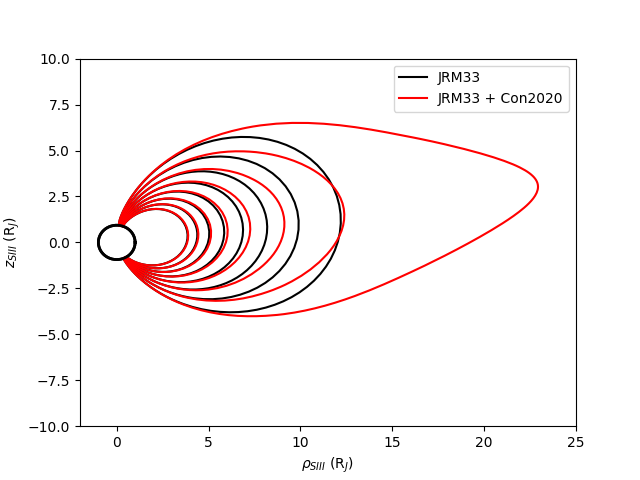
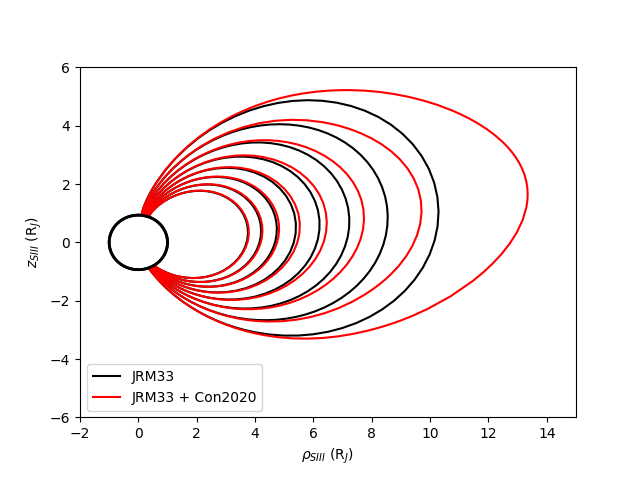
updated comparison plot

diff --git a/JupiterMag/Tools/TestTrace.py b/JupiterMag/Tools/TestTrace.py
@@ -59,7 +59,7 @@ def CompareTrace():
 	ax = T0.PlotRhoZ(label='JRM33',color='black')
 	ax = T1.PlotRhoZ(fig=ax,label='JRM33 + Con2020',color='red')
 	
-	ax.set_xlim(-2.0,25.0)
-	ax.set_ylim(-10.0,10.0)
+	ax.set_xlim(-2.0,15.0)
+	ax.set_ylim(-6.0,6.0)
 	
 	return ax
